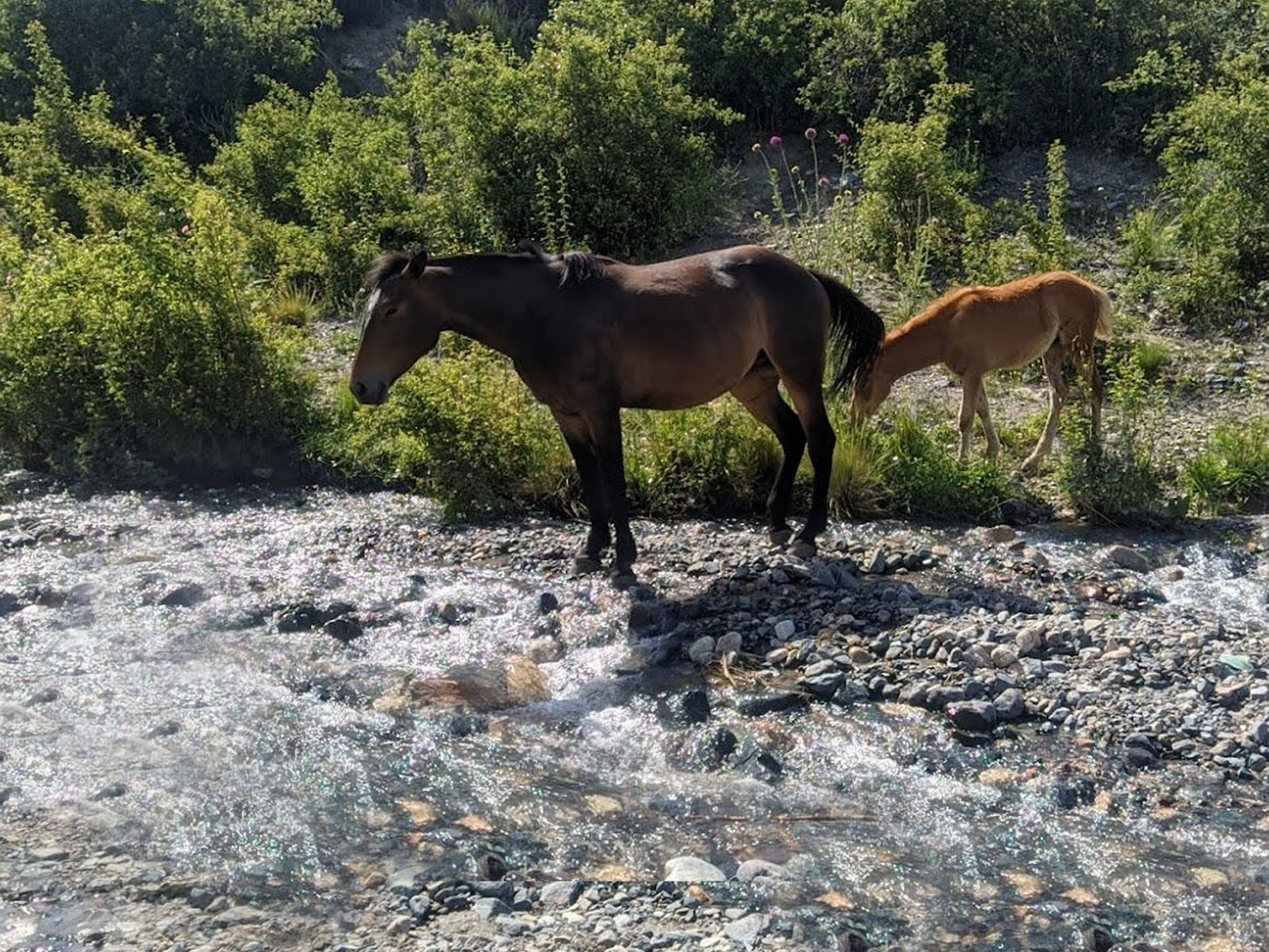
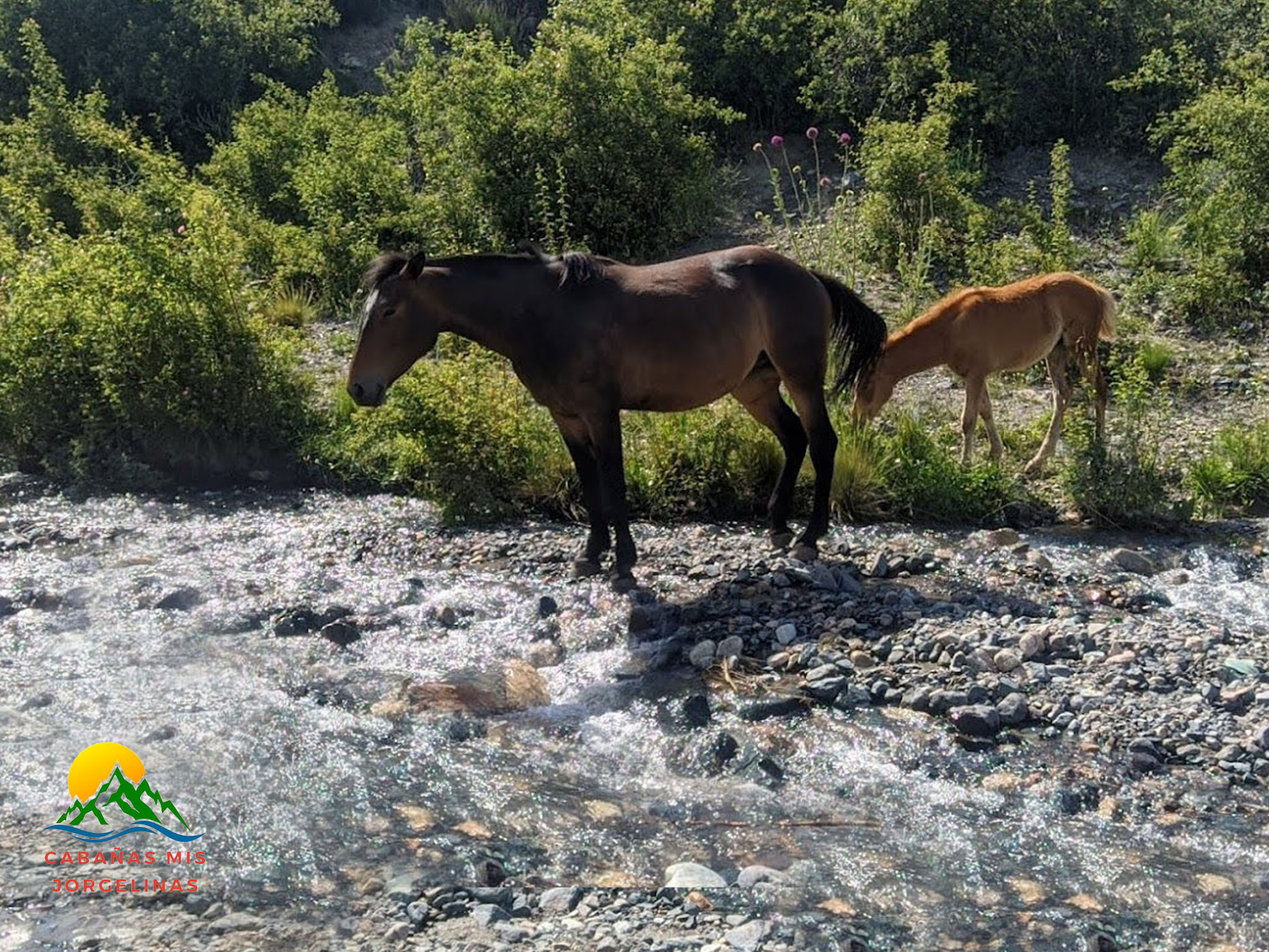
se eliminaron imágenes de más y se agregó readme

diff --git a/README.md b/README.md
@@ -1,70 +1,20 @@
-# Getting Started with Create React App
+# Cabañas Mis Jorgelinas 🌄🏠🏕
+## Proyecto freelance 💡
 
-This project was bootstrapped with [Create React App](https://github.com/facebook/create-react-app).
+Cabañas Mis Jorgelinas es un emprendimiento familiar, donde ofrecen sus servicios desde hace más de 20 años, en una de las zonas más turísticas de Mendoza, Potrerillos. La web surge de la necesidad de tener el complejo de cabañas visible para cualquier internauta que esté buscando donde vacacionar, además contar con un sitio oficial que lo aleje de las tantas estafas que hay en nombre de propietarios de cabañas falsos. Me satisface poder haber hecho una web para un proyecto que implica naturaleza, por lo que se pudo incorporar una galería de imágenes de los bellos paisajes montañosos y nevados que ofrece Mendoza.
 
-## Available Scripts
+## Visitá su web! 🚀
 
-In the project directory, you can run:
+Para visitar la web, 100% responsive y donde fue incluido el hosting y dominio, visita el siguiente link: https://cabañasjorgelinas.com/
 
-### `npm start`
+## Herramientas 💻🛠
 
-Runs the app in the development mode.\
-Open [http://localhost:3000](http://localhost:3000) to view it in your browser.
+Las herramientas, frameworks y librerías principales que se usaron para la web fueron:
 
-The page will reload when you make changes.\
-You may also see any lint errors in the console.
-
-### `npm test`
-
-Launches the test runner in the interactive watch mode.\
-See the section about [running tests](https://facebook.github.io/create-react-app/docs/running-tests) for more information.
-
-### `npm run build`
-
-Builds the app for production to the `build` folder.\
-It correctly bundles React in production mode and optimizes the build for the best performance.
-
-The build is minified and the filenames include the hashes.\
-Your app is ready to be deployed!
-
-See the section about [deployment](https://facebook.github.io/create-react-app/docs/deployment) for more information.
-
-### `npm run eject`
-
-**Note: this is a one-way operation. Once you `eject`, you can't go back!**
-
-If you aren't satisfied with the build tool and configuration choices, you can `eject` at any time. This command will remove the single build dependency from your project.
-
-Instead, it will copy all the configuration files and the transitive dependencies (webpack, Babel, ESLint, etc) right into your project so you have full control over them. All of the commands except `eject` will still work, but they will point to the copied scripts so you can tweak them. At this point you're on your own.
-
-You don't have to ever use `eject`. The curated feature set is suitable for small and middle deployments, and you shouldn't feel obligated to use this feature. However we understand that this tool wouldn't be useful if you couldn't customize it when you are ready for it.
-
-## Learn More
-
-You can learn more in the [Create React App documentation](https://facebook.github.io/create-react-app/docs/getting-started).
-
-To learn React, check out the [React documentation](https://reactjs.org/).
-
-### Code Splitting
-
-This section has moved here: [https://facebook.github.io/create-react-app/docs/code-splitting](https://facebook.github.io/create-react-app/docs/code-splitting)
-
-### Analyzing the Bundle Size
-
-This section has moved here: [https://facebook.github.io/create-react-app/docs/analyzing-the-bundle-size](https://facebook.github.io/create-react-app/docs/analyzing-the-bundle-size)
-
-### Making a Progressive Web App
-
-This section has moved here: [https://facebook.github.io/create-react-app/docs/making-a-progressive-web-app](https://facebook.github.io/create-react-app/docs/making-a-progressive-web-app)
-
-### Advanced Configuration
-
-This section has moved here: [https://facebook.github.io/create-react-app/docs/advanced-configuration](https://facebook.github.io/create-react-app/docs/advanced-configuration)
-
-### Deployment
-
-This section has moved here: [https://facebook.github.io/create-react-app/docs/deployment](https://facebook.github.io/create-react-app/docs/deployment)
-
-### `npm run build` fails to minify
-
-This section has moved here: [https://facebook.github.io/create-react-app/docs/troubleshooting#npm-run-build-fails-to-minify](https://facebook.github.io/create-react-app/docs/troubleshooting#npm-run-build-fails-to-minify)
+- HTML
+- CSS
+- SASS
+- JavaScript
+- React JS
+- FormSubmit
+- Styled components
